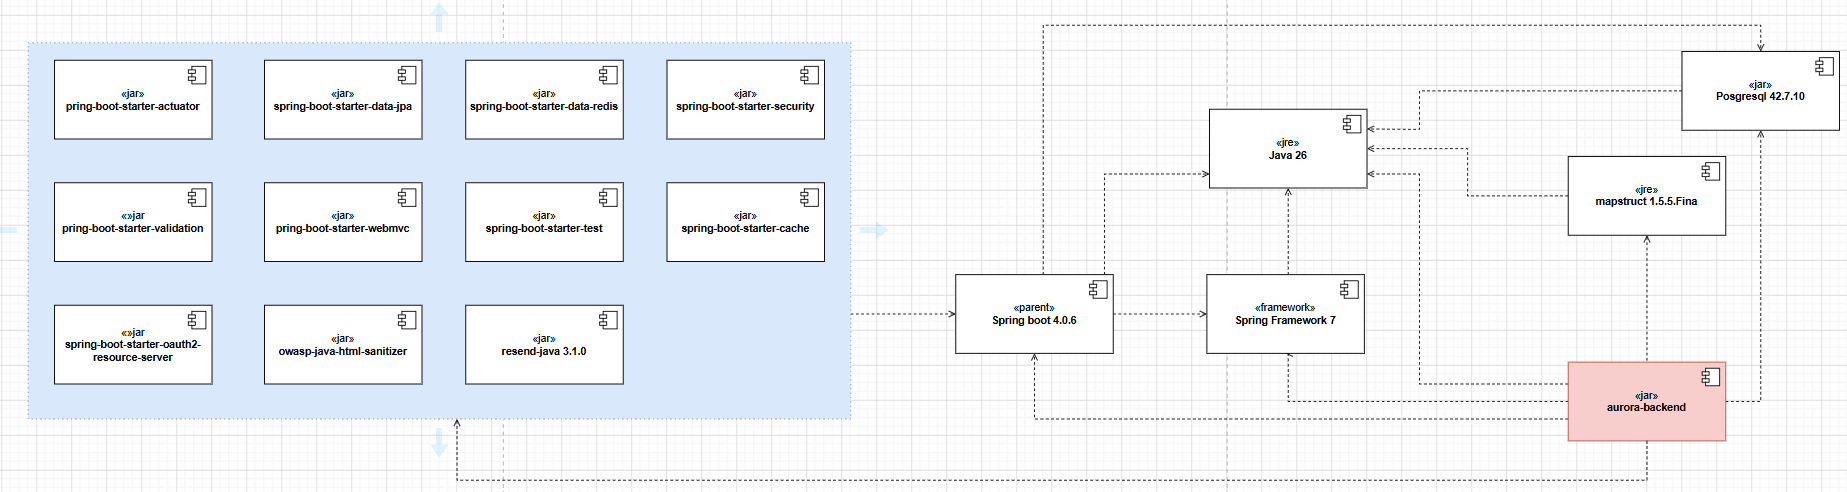
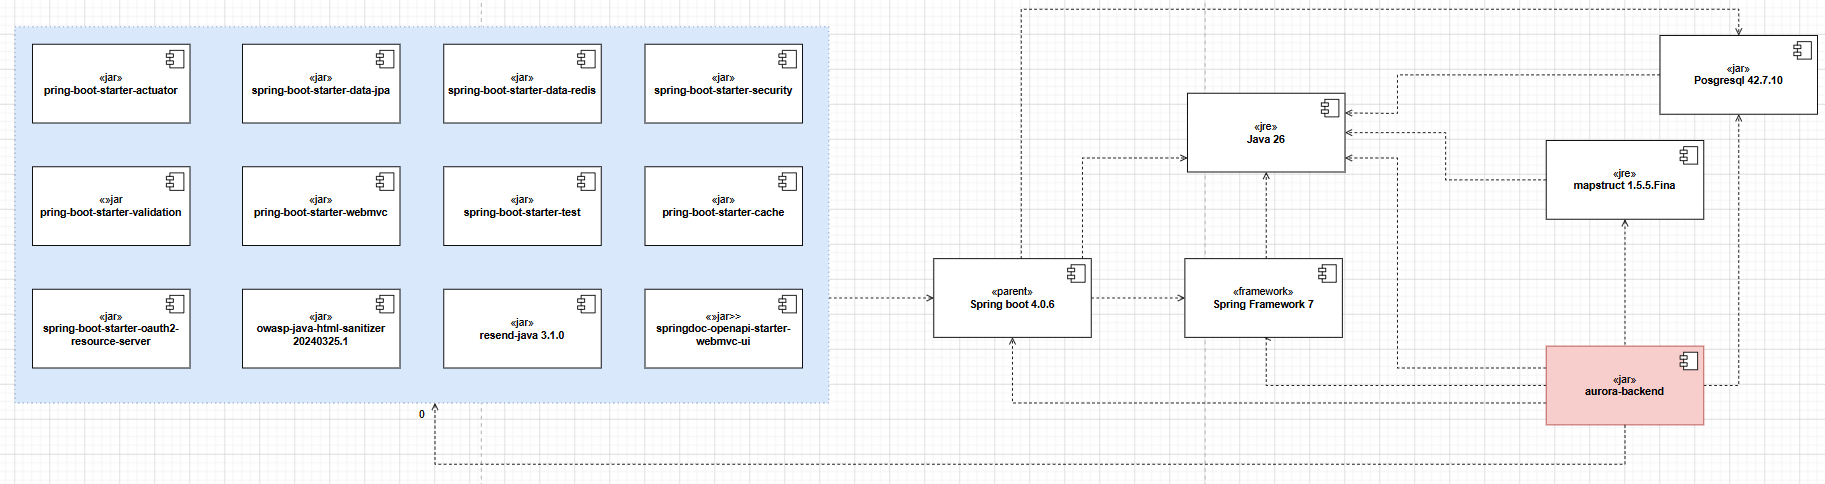
Ajustes en la documentación con la implementación de Open Api y Swagger

diff --git a/Documentacion-Aurora.md b/Documentacion-Aurora.md
@@ -121,6 +121,8 @@ El diagrama de componentes representa la estructura lógica con la que esta cons
 
 ### **2.1 Componentes del Backend**
 
+### Diagrama de Componentes del Backend
+
 | Componente | Anotación | Descripción |
 | :--- | :--- | :--- |
 | **aurora-backend** | `<<jar>>` | Núcleo funcional que contiene la lógica de negocio de la ferretería, exponiendo los servicios a través de una API REST. |
@@ -140,6 +142,7 @@ El diagrama de componentes representa la estructura lógica con la que esta cons
 | **spring-boot-starter-test** | `<<jar>>` | Entorno integral de pruebas que incluye utilidades y librerías (MockMvc, JUnit, etc.) para simular y probar el comportamiento del sistema. |
 | **owasp-java-html-sanitizer** | `<<jar>>` | Herramienta de seguridad encargada de sanitizar las entradas del usuario para prevenir ataques de inyección (como XSS). |
 | **resend-java 3.1.0** | `<<jar>>` | SDK oficial del servicio Resend utilizado para la integración y el envío transaccional de correos electrónicos. |
+| **springdoc-openapi-starter-webmvc-ui** | `<<jar>>` | Librería encargada de generar y exponer automáticamente la documentación interactiva de la API REST (Swagger UI) siguiendo el estándar OpenAPI. |
 
 ### **2.2 Diagrama de Componentes del Backend**
 
